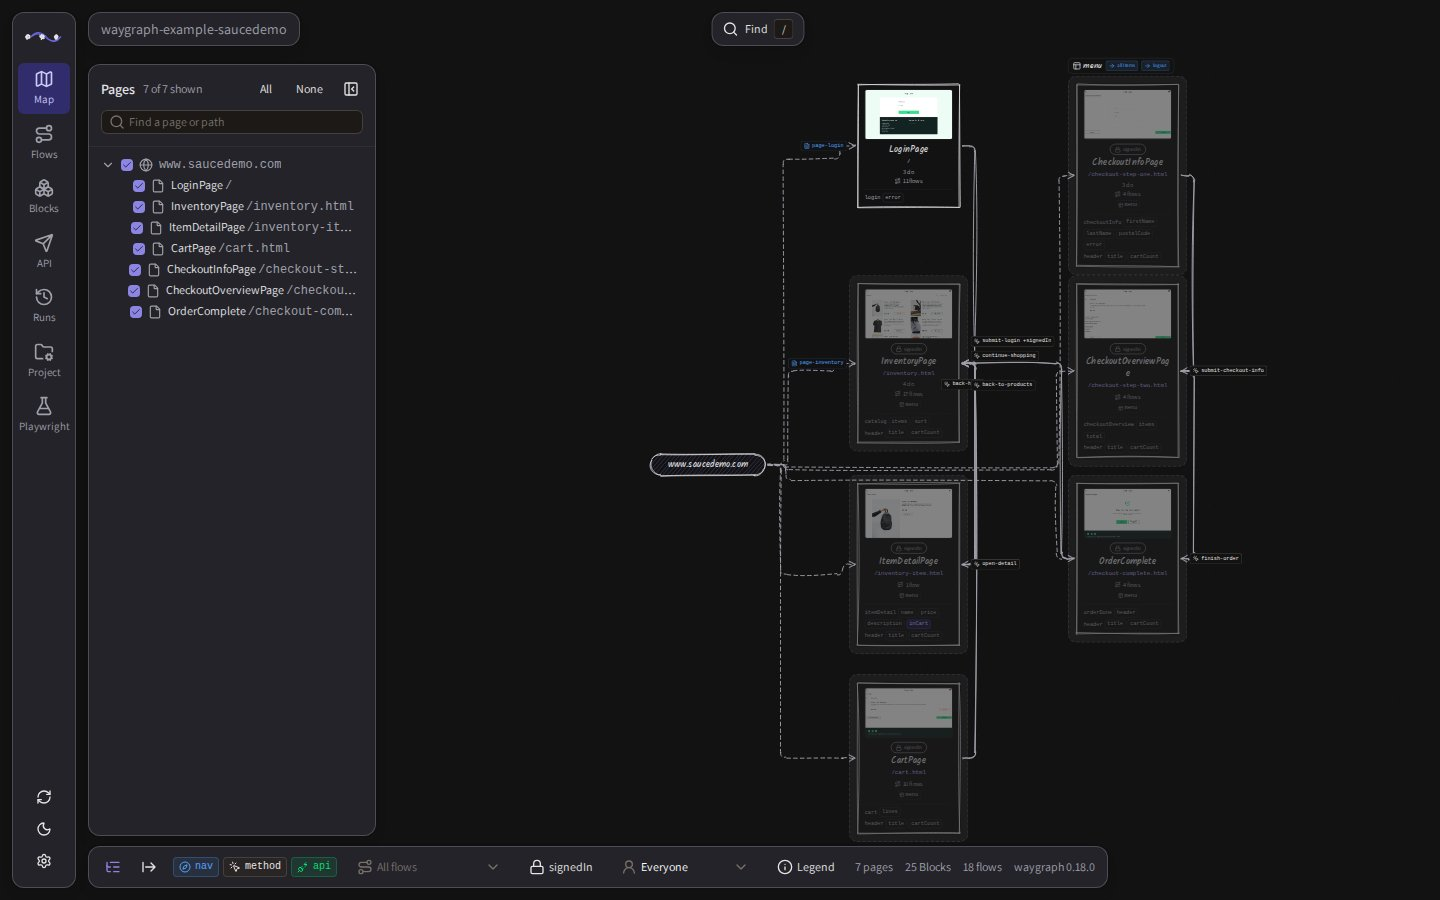
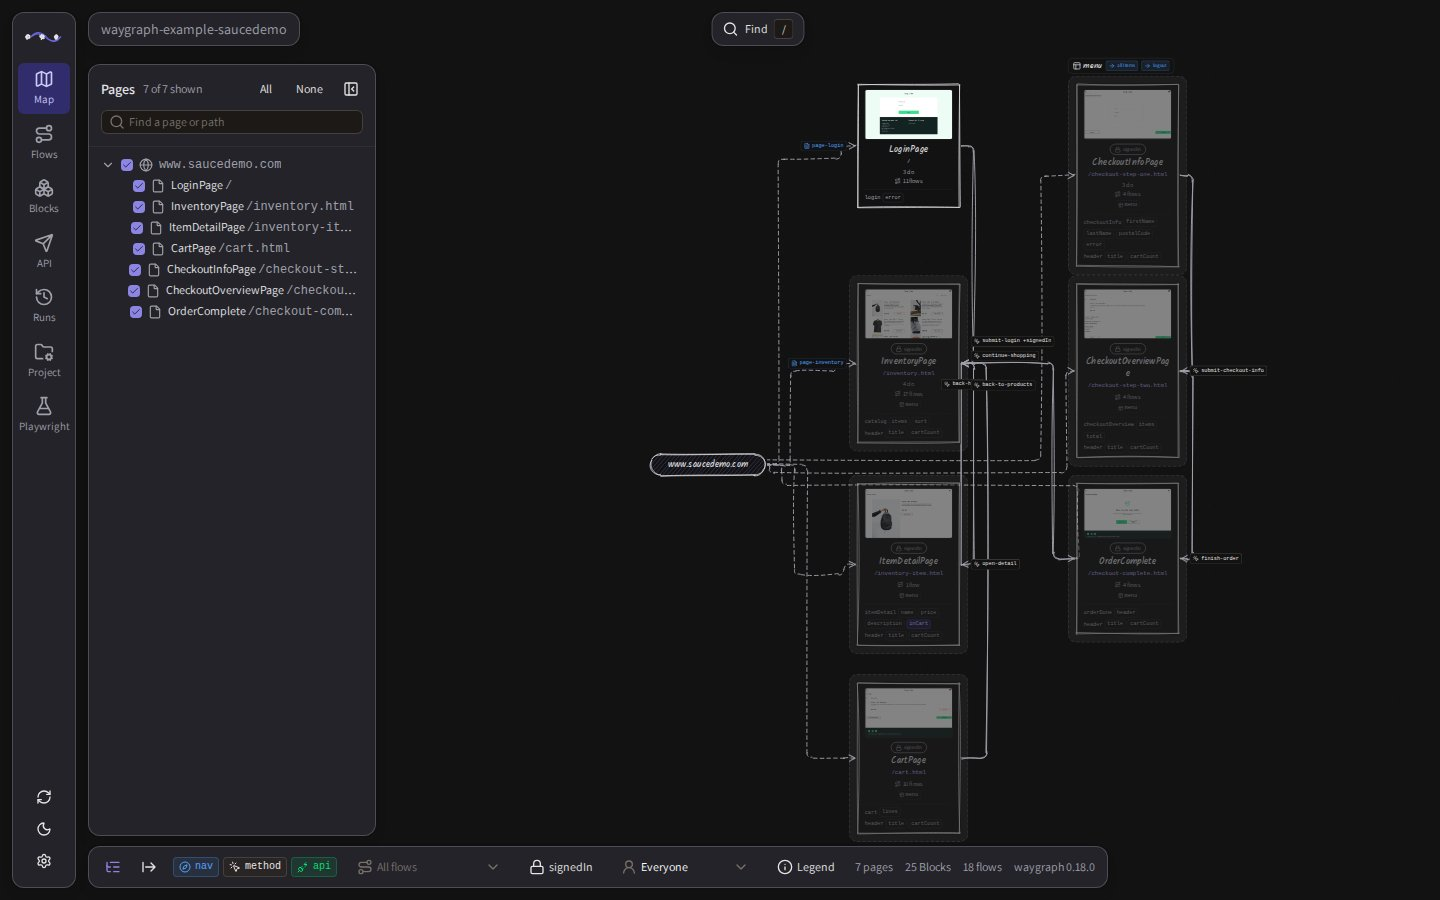
Flow meta video is one key (video: "{label}/{title}"); Studio map lines spread apart where they share a gap or row

Changed region(s): [[0.5312, 0.4044, 0.75, 0.6222], [0.6562, 0.2178, 0.6875, 0.3422]]

diff --git a/studio/inertia/lib/route.ts b/studio/inertia/lib/route.ts
@@ -78,3 +78,125 @@ export function roundedPath(points: Point[], radius = 10): string {
   out.push(`L ${last.x} ${last.y}`)
   return out.join(' ')
 }
+
+/** One line to route: its ends and the handles it leaves and enters by. */
+export type RouteIn = {
+  id: string
+  source: string
+  target: string
+  sourceHandle: string
+  targetHandle: string
+  lane: number
+}
+
+const SIDE: Record<string, 'left' | 'right' | 'top' | 'bottom'> = {
+  'in': 'left',
+  'out-left': 'left',
+  'out': 'right',
+  'back': 'right',
+  'up': 'top',
+  'out-up': 'top',
+  'down': 'bottom',
+  'under': 'bottom',
+}
+
+/** Where a handle sits on a box: the middle of its side. */
+export function portOf(rect: Rect, handle: string): Point {
+  const side = SIDE[handle] ?? 'right'
+  if (side === 'left') return { x: rect.x, y: rect.y + rect.h / 2 }
+  if (side === 'right') return { x: rect.x + rect.w, y: rect.y + rect.h / 2 }
+  if (side === 'top') return { x: rect.x + rect.w / 2, y: rect.y }
+  return { x: rect.x + rect.w / 2, y: rect.y + rect.h }
+}
+
+const STEP = 24
+
+/**
+ * Lines that run along the same channel (the same gap between columns, the same row between boxes) would draw over each
+ * other and read as one. Each group of overlapping parallel segments is spread out, STEP apart, around where they met.
+ * Works on vertices in place; a segment's two ends move together, so the lines stay square.
+ */
+function spread(routes: Point[][], axis: 'x' | 'y'): void {
+  const other = axis === 'x' ? 'y' : 'x'
+  type Seg = { route: number; at: number; lo: number; hi: number; i: number }
+  const segs: Seg[] = []
+  routes.forEach((points, route) => {
+    for (let i = 1; i < points.length - 2; i++) {
+      const a = points[i]!
+      const b = points[i + 1]!
+      if (Math.abs(a[axis] - b[axis]) < 0.5 && Math.abs(a[other] - b[other]) > 0.5)
+        segs.push({
+          route,
+          at: a[axis],
+          lo: Math.min(a[other], b[other]),
+          hi: Math.max(a[other], b[other]),
+          i,
+        })
+    }
+  })
+  const parent = segs.map((_, i) => i)
+  const find = (i: number): number => (parent[i] === i ? i : (parent[i] = find(parent[i]!)))
+  for (let i = 0; i < segs.length; i++)
+    for (let j = i + 1; j < segs.length; j++) {
+      const a = segs[i]!
+      const b = segs[j]!
+      if (a.route !== b.route && Math.abs(a.at - b.at) < STEP * 2 && a.lo < b.hi && b.lo < a.hi)
+        parent[find(i)] = find(j)
+    }
+  const groups = new Map<number, Seg[]>()
+  segs.forEach((s, i) => groups.set(find(i), [...(groups.get(find(i)) ?? []), s]))
+  for (const group of groups.values()) {
+    if (group.length < 2) continue
+    const centre = group.reduce((sum, s) => sum + s.at, 0) / group.length
+    group.sort((a, b) => a.lo - b.lo || a.hi - b.hi || a.route - b.route)
+    group.forEach((s, k) => {
+      const to = centre + (k - (group.length - 1) / 2) * STEP
+      routes[s.route]![s.i]![axis] = to
+      routes[s.route]![s.i + 1]![axis] = to
+    })
+  }
+}
+
+/**
+ * Every line's path, around the pages and spread apart where lines share a channel. `rects` are the boxes by node id; a
+ * top-down map is routed in a left-to-right frame (axes swapped) and swapped back.
+ */
+export function routeAll(
+  edges: RouteIn[],
+  rects: Map<string, Rect>,
+  topDown: boolean
+): Map<string, Point[]> {
+  const flip = (p: Point): Point => (topDown ? { x: p.y, y: p.x } : p)
+  const framed = new Map(
+    [...rects].map(([id, r]) => [id, topDown ? { x: r.y, y: r.x, w: r.h, h: r.w } : r])
+  )
+  const routes: Point[][] = []
+  const kept: RouteIn[] = []
+  for (const e of edges) {
+    const a = rects.get(e.source)
+    const b = rects.get(e.target)
+    if (!a || !b) continue
+    const from = flip(portOf(a, e.sourceHandle))
+    const to = flip(portOf(b, e.targetHandle))
+    const others = [...framed]
+      .filter(([id]) => id !== e.source && id !== e.target)
+      .map(([, r]) => r)
+    const sameSide = SIDE[e.sourceHandle] === SIDE[e.targetHandle]
+    const room = 24 + (e.lane % 4) * 6
+    routes.push(
+      sameSide
+        ? [
+            from,
+            { x: from.x + room, y: from.y },
+            { x: from.x + room, y: to.y },
+            { x: to.x + room, y: to.y },
+            to,
+          ].filter((p, i, all) => i === 0 || p.x !== all[i - 1]!.x || p.y !== all[i - 1]!.y)
+        : routeAround(from, to, others, 24, e.lane)
+    )
+    kept.push(e)
+  }
+  spread(routes, 'x')
+  spread(routes, 'y')
+  return new Map(kept.map((e, i) => [e.id, routes[i]!.map(flip)]))
+}

diff --git a/src/runtime/video-place.ts b/src/runtime/video-place.ts
@@ -2,10 +2,11 @@ import { copyFileSync, existsSync, mkdirSync, renameSync, unlinkSync } from "nod
 import { dirname, extname, join } from "node:path";
 import type { Flow } from "../engine/flow/flow.js";
 import type { Checkpoint } from "../engine/checkpoint/checkpoint.js";
-import type { VideoMeta } from "../engine/flow/map-options.js";
 
 /** What a recording is named from: the flow's `video` meta, and the words its tokens stand for. */
-export interface VideoTarget extends VideoMeta {
+export interface VideoTarget {
+  /** The flow's `video` key. */
+  video: string;
   /** The flow's name as it was asked for (`checkoutFlow`). */
   flow: string;
   title?: string | undefined;
@@ -17,7 +18,7 @@ export function videoTargetOf(flows: readonly Flow<Checkpoint<string>>[], names:
   const at = flows.findIndex((f) => f.meta?.video !== undefined);
   const flow = flows[at];
   if (!flow?.meta?.video) return undefined;
-  return { ...flow.meta.video, flow: names[at] ?? "flow", title: flow.meta.title, label: flow.meta.labels?.[0] };
+  return { video: flow.meta.video, flow: names[at] ?? "flow", title: flow.meta.title, label: flow.meta.labels?.[0] };
 }
 
 const slug = (text: string): string => text.normalize("NFKD").replace(/[^\w\s.-]/g, "").trim().replace(/[\s_]+/g, "-").replace(/-+/g, "-").replace(/^-|-$/g, "").toLowerCase();
@@ -40,12 +41,11 @@ export function expandVideoName(template: string, target: VideoTarget, pane?: st
     .join("/");
 }
 
-/** Moves a saved recording to where the flow said (`<dir>/<folder>/<name>.webm`), its subtitles with it; the new path, or the old one when there's nothing to say. */
+/** Moves a saved recording to the key its flow gave (`<dir>/<key>.webm`), its subtitles with it; the new path, or the old one when there's no key. */
 export function placeVideo(file: string, dir: string, target: VideoTarget | undefined, pane?: string): string {
   if (!target) return file;
-  const folder = target.folder ? expandVideoName(target.folder, target, pane) : "";
-  const name = expandVideoName(target.name ?? "{title}-{date}-{time}", target, pane) || slug(target.flow);
-  const base = join(dir, folder, pane && !(target.name ?? "").includes("{pane}") ? `${name}-${slug(pane)}` : name);
+  const key = expandVideoName(target.video, target, pane) || slug(target.flow);
+  const base = join(dir, pane && !target.video.includes("{pane}") ? `${key}-${slug(pane)}` : key);
   let dest = `${base}${extname(file)}`;
   for (let n = 2; existsSync(dest); n++) dest = `${base}-${n}${extname(file)}`;
   mkdirSync(dirname(dest), { recursive: true });

diff --git a/studio/inertia/pages/map.vue b/studio/inertia/pages/map.vue
@@ -17,6 +17,7 @@ import SketchEdge from '~/components/graph/sketch_edge.vue'
 import PagePanel from '~/components/map/page_panel.vue'
 import BlockPanel from '~/components/map/block_panel.vue'
 import EdgePanel from '~/components/map/edge_panel.vue'
+import { routeAll } from '~/lib/route'
 import { useStorage } from '@vueuse/core'
 import { layoutTree, treeColumns, type TreeDirection } from '~/lib/layout'
 import { planLabels } from '~/lib/edge_labels'
@@ -660,7 +661,7 @@ watch([direction, hiddenList, showTree, () => props.access.account], async () =>
   requestAnimationFrame(() => requestAnimationFrame(fit))
 })
 
-const edges = computed<Edge[]>(() => {
+const edgeDefs = computed<Edge[]>(() => {
   // Only what joins two shown nodes; lanes among those, so hidden lines leave no gaps.
   const siteEdges = shownSiteEdges.value
   const moves = shownMoves.value
@@ -727,6 +728,41 @@ const edges = computed<Edge[]>(() => {
     }),
   ]
 })
+
+/** Every line's path, around the pages and spread where lines share a channel (measured once the boxes are on screen). */
+const routes = computed(() => {
+  const rects = new Map(
+    getNodes.value
+      .filter((n) => n.dimensions.width > 0)
+      .map((n) => [
+        n.id,
+        {
+          x: n.computedPosition.x,
+          y: n.computedPosition.y,
+          w: n.dimensions.width,
+          h: n.dimensions.height,
+        },
+      ])
+  )
+  return routeAll(
+    edgeDefs.value.map((e) => ({
+      id: e.id,
+      source: e.source,
+      target: e.target,
+      sourceHandle: e.sourceHandle ?? 'out',
+      targetHandle: e.targetHandle ?? 'in',
+      lane: (e.data?.lane as number | undefined) ?? 0,
+    })),
+    rects,
+    direction.value === 'TB'
+  )
+})
+const edges = computed<Edge[]>(() =>
+  edgeDefs.value.map((e) => {
+    const route = routes.value.get(e.id)
+    return route ? { ...e, data: { ...e.data, route } } : e
+  })
+)
 
 /** A page's newest screenshot, versioned by when it was taken so a new one shows without a stale cache. */
 const shotUrl = (checkpoint: string): string | undefined =>

diff --git a/tests/unit/video-place.spec.ts b/tests/unit/video-place.spec.ts
@@ -5,13 +5,13 @@ import { tmpdir } from "node:os";
 import { join } from "node:path";
 import { expandVideoName, placeVideo } from "../../src/runtime/video-place.js";
 
-const target = { flow: "checkoutFlow", title: "Check out: the happy path!", label: "Checkout" };
+const target = { video: "", flow: "checkoutFlow", title: "Check out: the happy path!", label: "Checkout" };
 
 test("a video name's tokens become path pieces", () => {
   const now = new Date("2026-11-16T14:05:09Z");
-  assert.equal(expandVideoName("{label}/{title}", target, undefined, now), "checkout/check-out-the-happy-path");
-  assert.equal(expandVideoName("{flow}-{date}-{time}", target, undefined, now), "checkoutflow-2026-11-16-14-05-09");
-  assert.equal(expandVideoName("../{title}/./{pane}", target, "Mail", now), "check-out-the-happy-path/mail");
+  assert.equal(expandVideoName("{label}/{title}", { ...target, video: "" }, undefined, now), "checkout/check-out-the-happy-path");
+  assert.equal(expandVideoName("{flow}-{date}-{time}", { ...target, video: "" }, undefined, now), "checkoutflow-2026-11-16-14-05-09");
+  assert.equal(expandVideoName("../{title}/./{pane}", { ...target, video: "" }, "Mail", now), "check-out-the-happy-path/mail");
 });
 
 test("a recording moves to the folder and name the flow says, with its subtitles, and never overwrites", () => {
@@ -22,7 +22,7 @@ test("a recording moves to the folder and name the flow says, with its subtitles
     writeFileSync(file.replace(".webm", ".vtt"), "WEBVTT");
     return file;
   };
-  const meta = { ...target, folder: "auth/{label}", name: "{title}" };
+  const meta = { ...target, video: "auth/{label}/{title}" };
   const first = placeVideo(make("a1.webm"), dir, meta);
   assert.equal(first, join(dir, "auth/checkout/check-out-the-happy-path.webm"));
   assert.ok(existsSync(first.replace(".webm", ".vtt")));

diff --git a/studio/inertia/components/graph/sketch_edge.vue b/studio/inertia/components/graph/sketch_edge.vue
@@ -32,6 +32,8 @@ const props = defineProps<
     lane?: number
     /** The Blocks that make this move, each shown whole as a badge in its kind's colour (instead of `label`). */
     blocks?: { id?: string; name: string; kind: string; description: string }[]
+    /** The line's whole path, planned by the map around every page and spread from the lines beside it. */
+    route?: { x: number; y: number }[]
     /** Where the map planned this line's badges: beside its target, before or after it, at an offset in their stack. */
     place?: { side: 'before' | 'after'; offset: number } | undefined
   }>
@@ -58,6 +60,15 @@ const obstacles = computed<Rect[]>(() =>
 
 const geometry = computed<[string, number, number]>(() => {
   const { sourceX: sx, sourceY: sy, targetX: tx, targetY: ty } = props
+  const planned = props.data?.route
+  if (planned && planned.length > 1) {
+    const mid = Math.floor(planned.length / 2)
+    return [
+      roundedPath(planned),
+      (planned[mid]!.x + planned[mid - 1]!.x) / 2,
+      (planned[mid]!.y + planned[mid - 1]!.y) / 2,
+    ]
+  }
   if (props.data?.squared && props.sourcePosition !== props.targetPosition) {
     // Between two columns (or rows): a path of its own around every other page.
     const topDown =

diff --git a/src/engine/flow/map-options.ts b/src/engine/flow/map-options.ts
@@ -20,18 +20,13 @@ export interface FlowMeta {
   ticket?: string;
   /** Who looks after it. */
   owner?: string;
-  /** Where a recording of it (`--video`) is saved, instead of a random name in one folder. */
-  video?: VideoMeta;
-}
-
-/**
- * Where a flow's recording goes, under the video folder (`--video`, `video.dir`): `folder` and `name` are paths with tokens
- * `{flow}`, `{title}`, `{label}` (its first), `{date}`, `{time}` and `{pane}`; no `name` is `{title}-{date}-{time}`. A name taken gets `-2`.
- * @example video: { folder: "auth/{label}", name: "{title}" }
- */
-export interface VideoMeta {
-  folder?: string;
-  name?: string;
+  /**
+   * Where a recording of it (`--video`) is saved: one key under the video folder, like an object key, with the tokens `{flow}`,
+   * `{title}`, `{label}` (its first), `{date}`, `{time}` and `{pane}`; the last part is the file's name (the extension is added),
+   * a name already taken gets `-2`. Without it, a random name in the video folder.
+   * @example video: "auth/{label}/{title}-{date}"
+   */
+  video?: string;
 }
 
 export interface MapBuilderOptions extends FlowMeta {

diff --git a/src/index.ts b/src/index.ts
@@ -74,7 +74,7 @@ export type { MethodBlock, MethodBlockOptions } from "./engine/block/kinds/metho
 export type { Expectation, ExpectBlock, ExpectBlockOptions, ExpectList } from "./engine/block/kinds/expect.js";
 export type { PageBlock, PageBlockOptions, PageHandle, InlineMethod, PageExpectEntry, PageMethodEntry, PageMethods } from "./engine/block/kinds/page.js";
 export { state, type StateChange, type StateSets } from "./engine/mem/state.js";
-export type { FlowMeta, MapBuilderOptions, VideoMeta } from "./engine/flow/map-options.js";
+export type { FlowMeta, MapBuilderOptions } from "./engine/flow/map-options.js";
 export type { ActionPage } from "./engine/block/action-page.js";
 export { discoverGraph, toMermaid, findOrphanBlocks, findBlockPath } from "./analysis/graph.js";
 export { buildManifest } from "./manifest/manifest.js";

diff --git a/examples/saucedemo/src/flows/auth/login.flow.ts b/examples/saucedemo/src/flows/auth/login.flow.ts
@@ -4,7 +4,7 @@ import { Login } from "../../map/(shop)/_page.block.js";
 
 /** Standard user signs in. Credentials come from the memStub in src/states/checkout.mem-stubs.ts unless --data / mem set them. */
 export const loginFlow = engine
-  .map({ title: "Sign in", description: "A standard user signs in and lands on the inventory.", labels: ["auth", "smoke"], video: { folder: "{label}", name: "{title}" }, memStub: true })
+  .map({ title: "Sign in", description: "A standard user signs in and lands on the inventory.", labels: ["auth", "smoke"], video: "{label}/{title}", memStub: true })
   .gotoPage(Login.stubBefore((ctx) => ctx.ui.title("Sign In")))
   .method(Login.do.fillUsername)
   .method(Login.do.fillPassword)

diff --git a/templates/quickstart/src/flows/auth/login.flow.ts b/templates/quickstart/src/flows/auth/login.flow.ts
@@ -4,7 +4,7 @@ import { Login } from "../../map/(shop)/_page.block.js";
 
 /** Standard user signs in. Credentials come from the memStub in src/states/checkout.mem-stubs.ts unless --data / mem set them. */
 export const loginFlow = engine
-  .map({ title: "Sign in", description: "A standard user signs in and lands on the inventory.", labels: ["auth", "smoke"], video: { folder: "{label}", name: "{title}" }, memStub: true })
+  .map({ title: "Sign in", description: "A standard user signs in and lands on the inventory.", labels: ["auth", "smoke"], video: "{label}/{title}", memStub: true })
   .gotoPage(Login.stubBefore((ctx) => ctx.ui.title("Sign In")))
   .method(Login.do.fillUsername)
   .method(Login.do.fillPassword)

diff --git a/src/manifest/manifest.ts b/src/manifest/manifest.ts
@@ -108,7 +108,7 @@ export interface ManifestFlow {
   description?: string;
   ticket?: string;
   /** Where its recording is saved (`map({ video })`). */
-  video?: { folder?: string; name?: string };
+  video?: string;
   owner?: string;
   settings: { memStub?: true; expectedFailure?: string; sessionReset?: true; demoPace?: unknown };
   /** Its panes (`map({ panes })`): who is signed in in each, its device, the pane whose context it shares. */

diff --git a/src/engine/flow/flow.ts b/src/engine/flow/flow.ts
@@ -316,7 +316,7 @@ export interface FlowSettings {
   labels?: readonly string[];
   ticket?: string;
   owner?: string;
-  video?: import("./map-options.js").VideoMeta;
+  video?: string;
 }
 
 /** The meta a flow's settings carry, when it has any. */

diff --git a/docs/guides/flows.md b/docs/guides/flows.md
@@ -209,7 +209,7 @@ export const loginFlow = engine.map({
   labels: ["auth", "smoke"],
   ticket: "QA-12", // optional
   owner: "web",    // optional
-  video: { folder: "{label}", name: "{title}" },   // where `--video` saves it
+  video: "auth/{label}/{title}",   // where `--video` saves it
 });
 ```
 
@@ -217,10 +217,10 @@ The title names the test and the demo's first slide, the description is its capt
 join the config's [labels](./testing#labels)). `waygraph list`, the manifest and Waygraph Studio show all of them;
 `waygraph check` names the flows still without a description.
 
-`video` says where a recording of the flow (`--video`) is saved under the video folder, instead of a random name beside every other
-run: `folder` and `name` are paths with the tokens `{flow}`, `{title}`, `{label}` (its first), `{date}`, `{time}` and `{pane}`. No `name`
-is `{title}-{date}-{time}`; a name already taken gets `-2`. A flow with panes (`--video-panes`) saves each pane's video with `-<pane>` after
-the name, and the subtitles of a voice-over move with the video. A run of several flows uses the first that says.
+`video` is one key, like an object key in S3: where a recording of the flow (`--video`) is saved under the video folder, instead of a
+random name beside every other run. The tokens are `{flow}`, `{title}`, `{label}` (its first), `{date}`, `{time}` and `{pane}`; the last
+part is the file's name, the extension is added, and a name already taken gets `-2`. A flow with panes (`--video-panes`) adds `-<pane>`
+to the name unless the key has `{pane}`, and a voice-over's subtitles move with the video. A run of several flows uses the first that says.
 
 ## Flow settings
 
